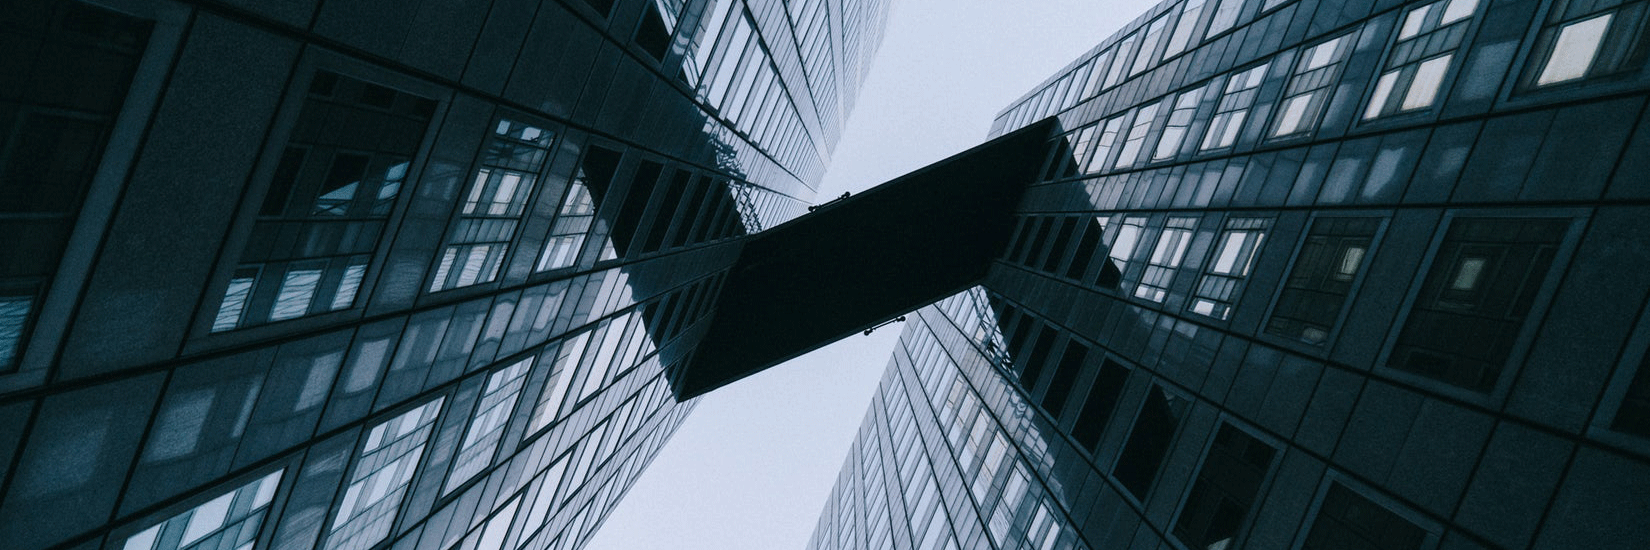
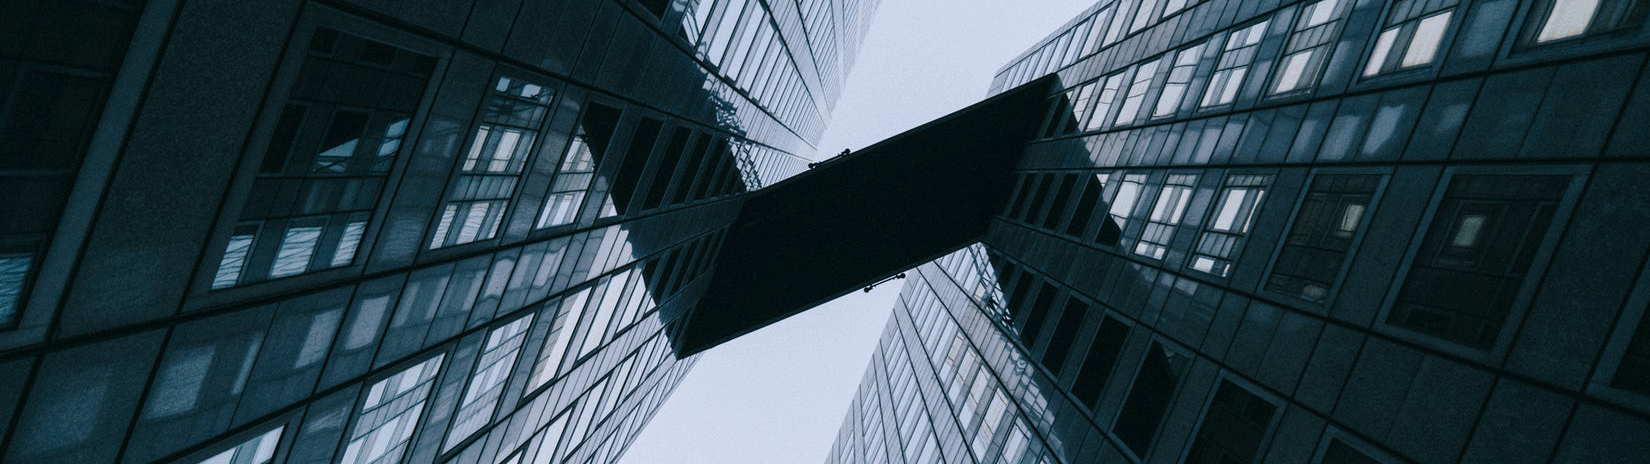
Webdesign

diff --git a/ciapp.html b/ciapp.html
@@ -60,26 +60,29 @@
 
 <!-- Webbsidan är uppdelad i divar -->
 
-<section class="upperHalf">
+<div id="upperHalf">
     <div class="row"></div>
-    <div class ="col-6 .col-md-4">
+    <div class="col-6 .col-md-4">
         <h1 id="headLine">Enter your Git please</h1>
     </div>
-</section>
-<section class="lowerHalf">
-        <div class="gitRepoContainer">
-            <form class="form-group">
-                <label id="gitLabel" class="from-control-label" for="repoInput">Enter you Git repository</label>
-                <input type="text" class="form-control form-control-lg" id="repoInput">
-            </form>
-            <button class="btn btn-outline-success" id="submitRepo" onclick="storeRepo()" type="submit">
-                Submit
-            </button>
+</div>
+
+<div id="lowerHalf">
+    <div class="enterGitContainer">
+        <div class="text-left">
+            <div class="col-sm-10 form-group-lg">
+                <div class="gitRepoContainer">
+                    <form class="form-group">
+                        <label id="gitLabel" class="from-control-label" for="repoInput">Enter you Git repository</label>
+                        <input type="text" class="form-control form-control-lg" id="repoInput">
+                    </form>
+                    <button class="btn btn-outline-success" id="submitRepo" onclick="storeRepo()" type="submit">
+                        Submit
+                    </button>
+                </div>
+            </div>
         </div>
-</section>
-
-
-
-
+    </div>
+</div>
 </body>
 </html>

diff --git a/css/layout.css b/css/layout.css
@@ -5,13 +5,12 @@
 }
 
 #upperHalf {
-    background: url('../images/modernView.png') 100% 0 no-repeat fixed;
-    width: 100%;
-    height: 50%;
+    background: url('../images/modernView.png') 50% 0 no-repeat;
+    max-width: 100%;
+    height: 50Vh;
     margin: 0;
-    align-items: flex-start;
-    justify-content: space-around;
-    display: flex;
+    padding: 200px 0 260px 0;
+    background-size: cover;
 
 }
 
@@ -19,7 +18,7 @@
     background-color: #C5C9B8;
     width: 100%;
     color: #333333;
-    height: 50%;
+    height: 50Vh;
     margin: 0 auto;
     overflow: hidden;
     align-items: center;
